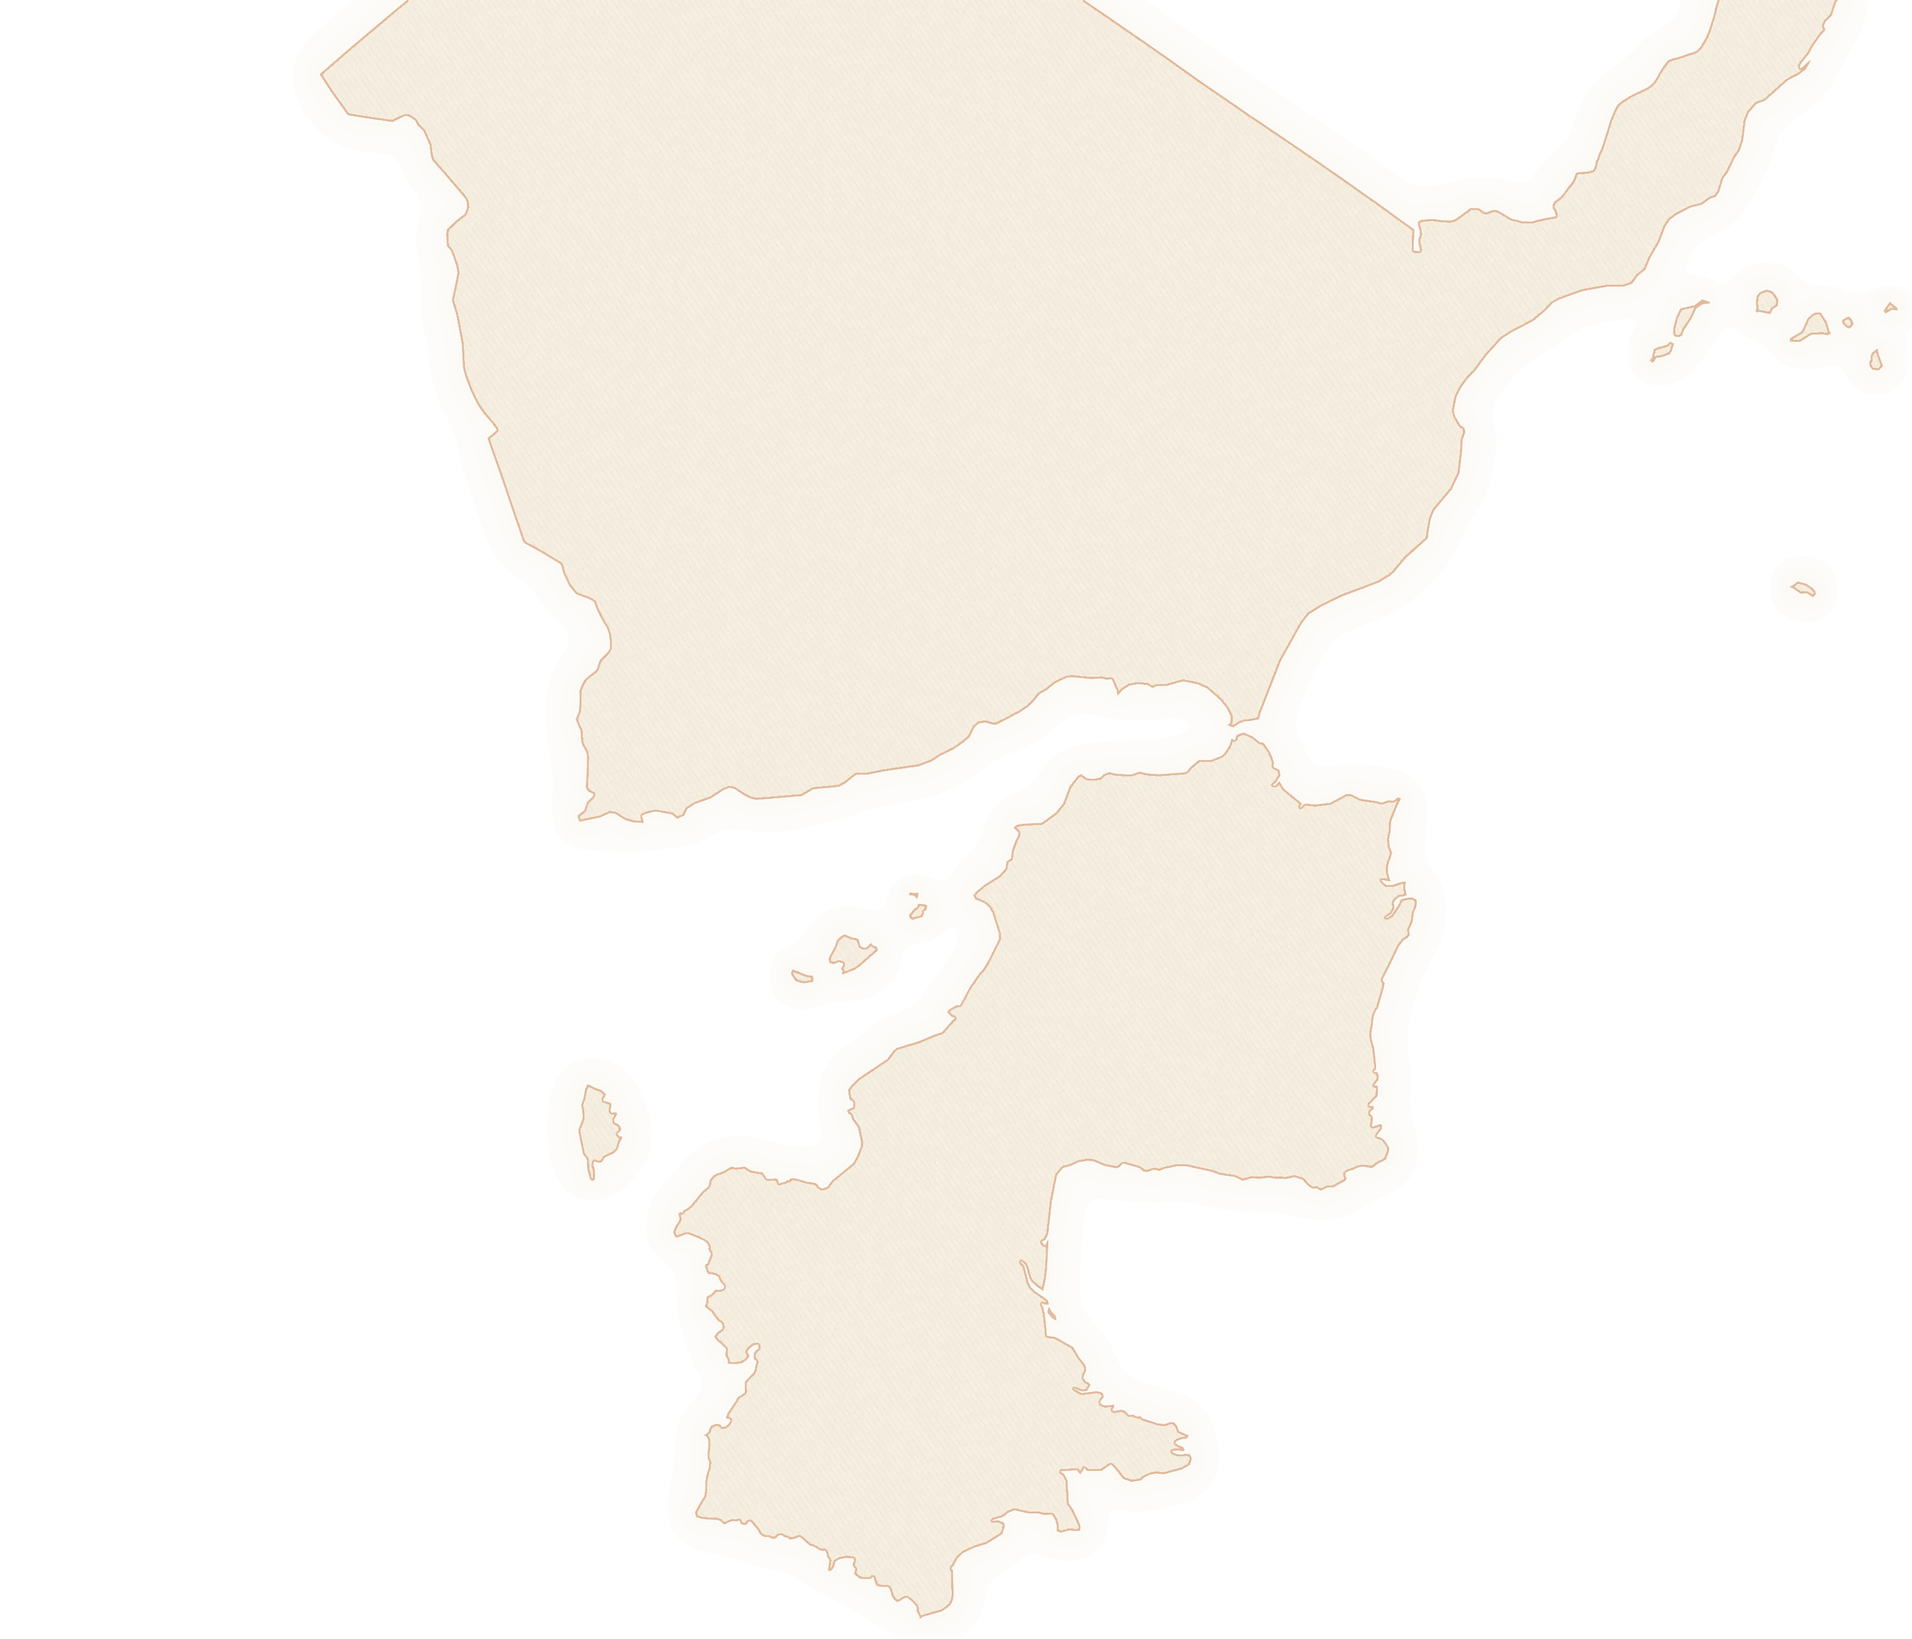
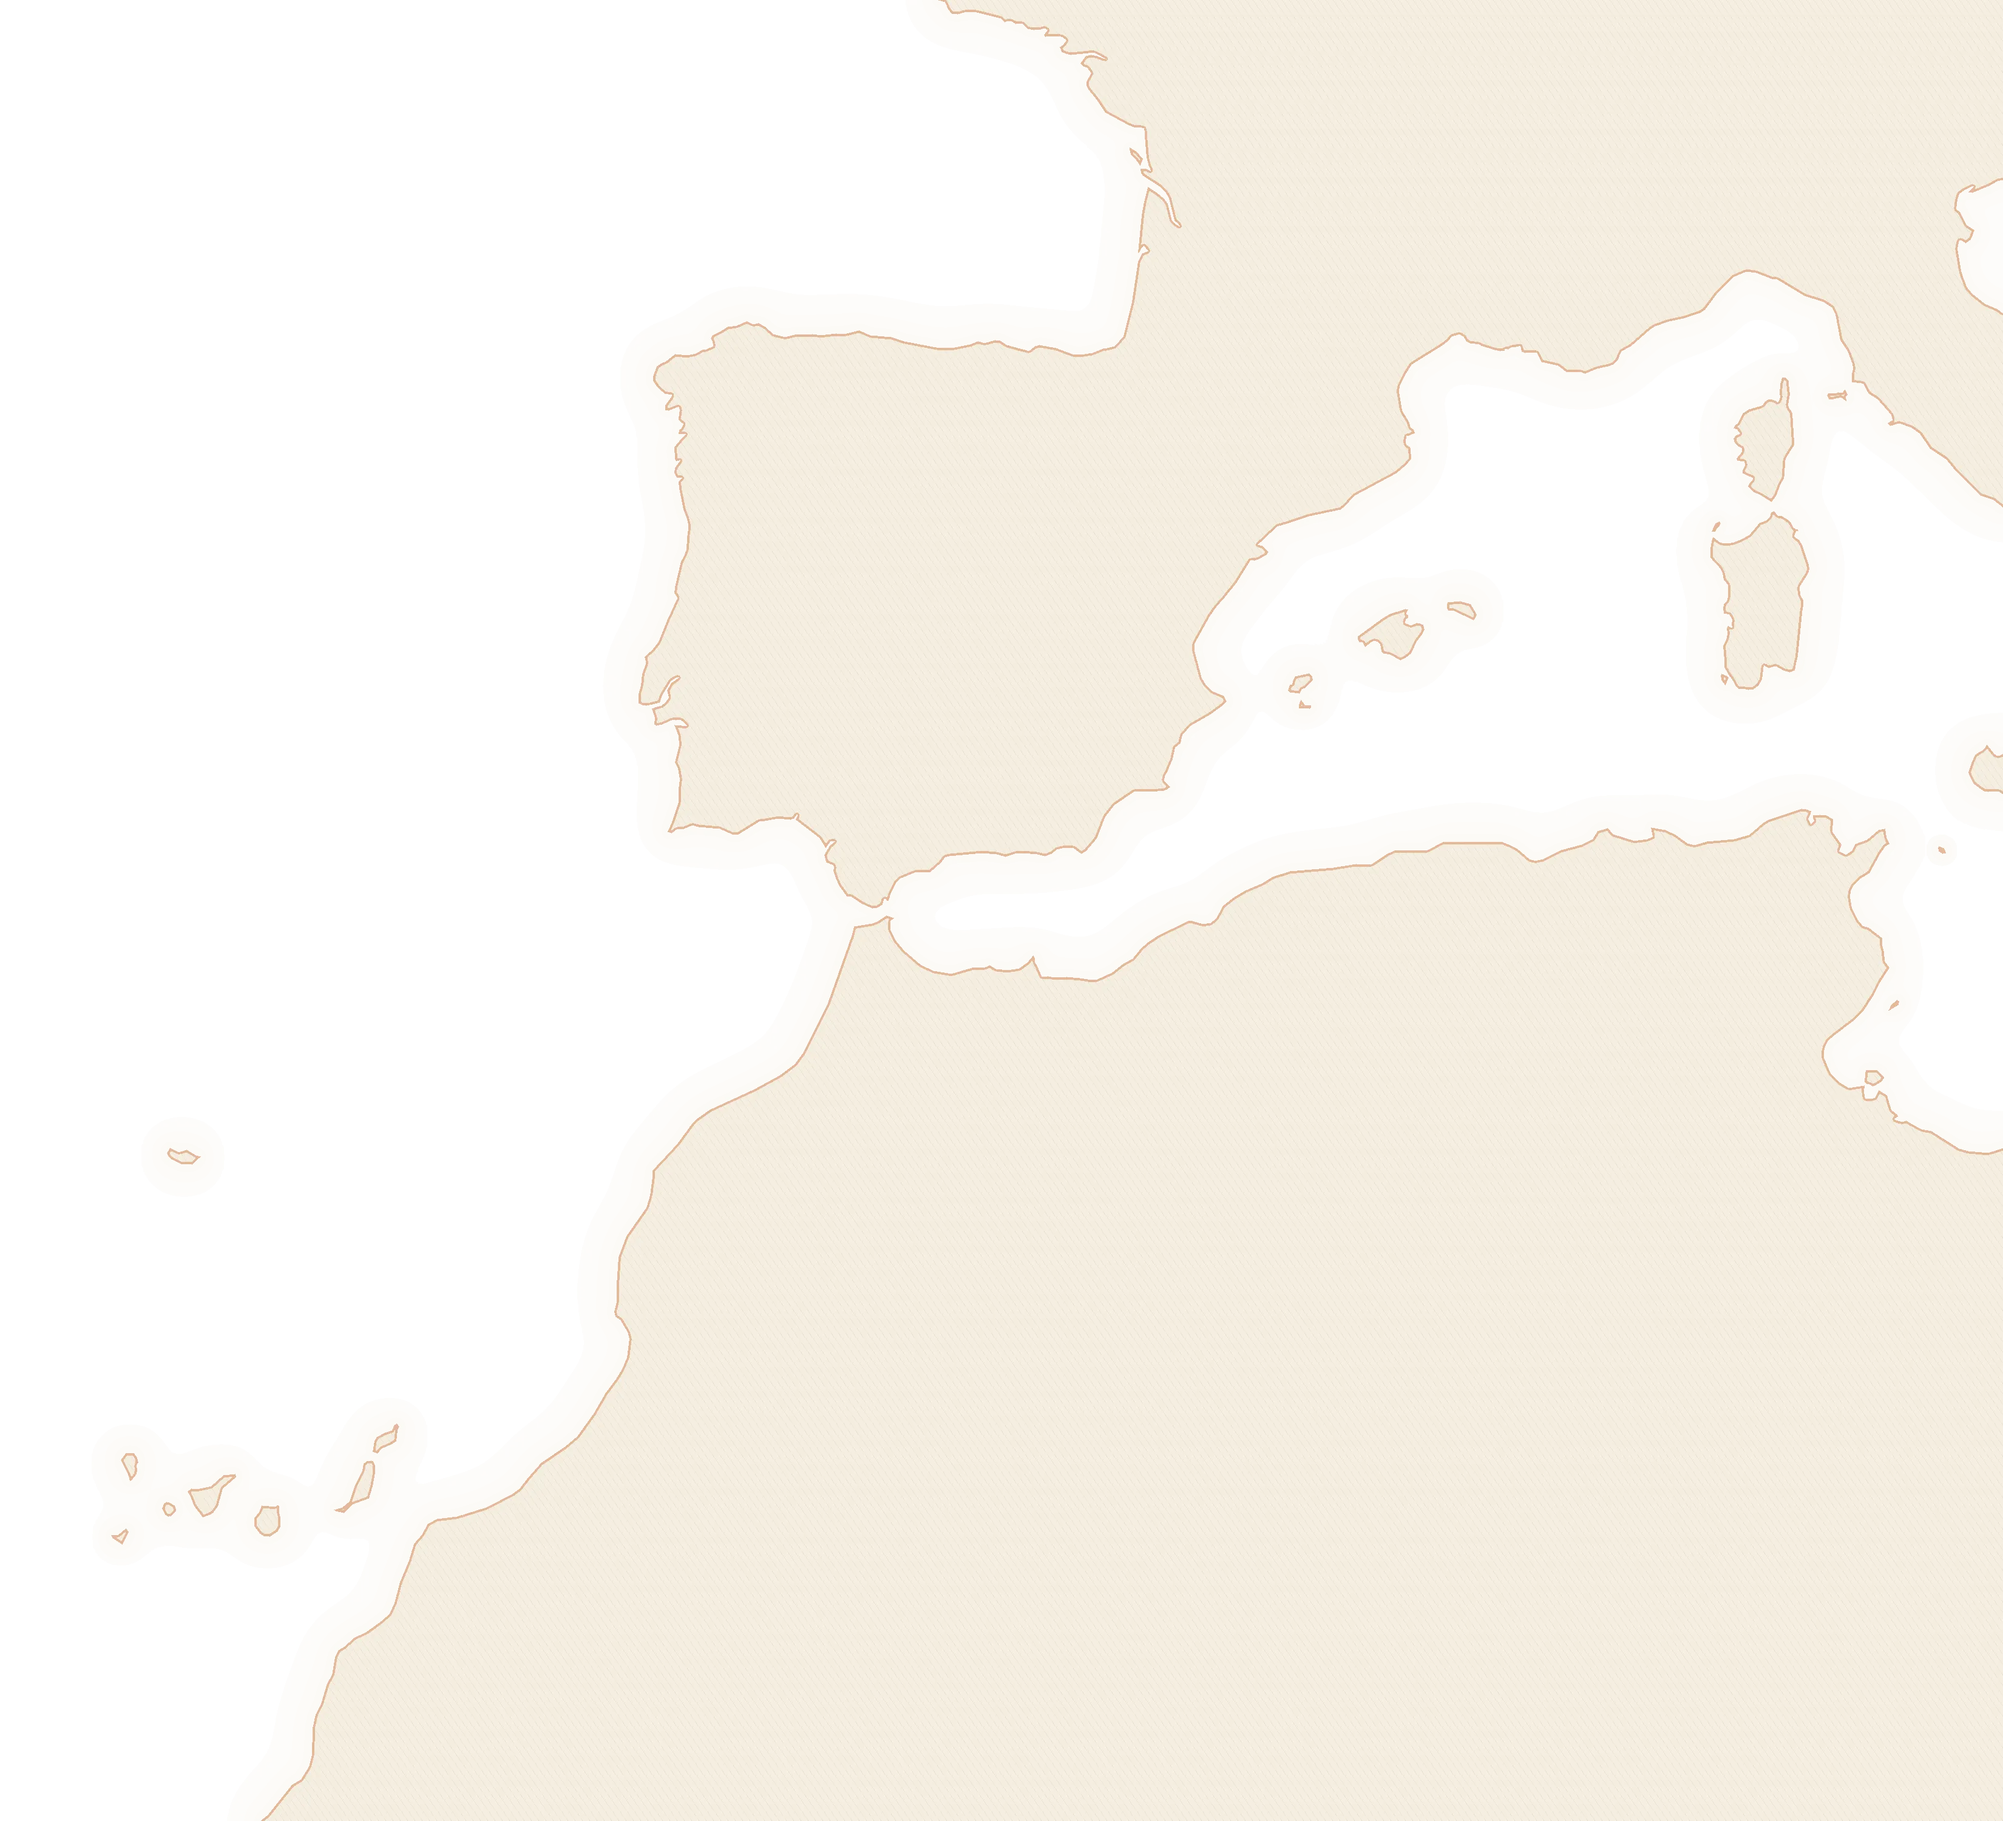
Mapa: Europa arriba y África abajo, con todas las ciudades
- La tierra sale de Natural Earth (50 m), norte arriba: la península y el norte de África enteros, sin fronteras políticas.
- Proyección simple compartida por la maqueta y WordPress (tf_globo): el cuadro va de 12,5° O a 5,5° E y de 29° N a 43,4° N.
- Las ciudades de la maqueta (con Ceuta, Almería y Gibraltar) se suman a las de WordPress; si una ciudad está en los dos sitios, manda WordPress.

diff --git a/page-comunidad.php b/page-comunidad.php
@@ -621,7 +621,7 @@ body.admin-bar .top{top:32px}@media (max-width:782px){body.admin-bar .top{top:46
     <div class="donde">
       <div class="mapaG" id="mapaG">
         <canvas class="mar luz" id="mar" data-modo="mar" data-colores="#2F4FA8,#5B6FBF,#CDCFE6" data-fondo="#CDCFE6" data-grano=".3" data-escala=".35" aria-hidden="true"></canvas>
-        <div class="tierra" id="mapa"><img src="<?php tf_img('if08a5f3143', TF_U . '/img/tierra.webp'); ?>" data-tf-img="if08a5f3143" alt="Las dos orillas del Estrecho, con España y el norte de Marruecos." draggable="false"></div>
+        <div class="tierra" id="mapa"><img src="<?php tf_img('i7628e2efc3', TF_U . '/img/tierra.webp?v=3'); ?>" data-tf-img="i7628e2efc3" alt="Las dos orillas del Estrecho: la península ibérica y el norte de África." draggable="false"></div>
         <div class="panel" id="panel" aria-live="polite"></div>
         <div class="lupa" id="lupa" role="group" aria-label="Zoom del mapa"><button type="button" data-z="1" aria-label="Acercar">+</button><button type="button" data-z="-1" aria-label="Alejar">−</button></div>
         <p class="pista" aria-hidden="true" data-tf="tb6d9a0d982"><?php tf_t('tb6d9a0d982'); ?></p>
@@ -927,16 +927,16 @@ body.admin-bar .top{top:32px}@media (max-width:782px){body.admin-bar .top{top:46
 
   /* ===== 5 · el globo del revés, con la gente de cada ciudad ===== */
   const CIU0 = {
-    algeciras: { n: 'Algeciras', txt: 'Aquí nació Transfronteriza, a un paso del Estrecho. Si vives cerca, súmate: te presentamos a la comunidad.', foto: '<?php echo TF_U; ?>/img/comunidad/ciudad-algeciras.jpg', x: 60.72, y: 36.18, sede: 1 },
-    jerez: { n: 'Jérez del Marquesado', txt: 'La finca Las Viñas, al pie de Sierra Nevada. Aquí hacemos el encuentro de cada septiembre.', foto: '<?php echo TF_U; ?>/img/comunidad/ciudad-jerez.jpg', x: 48.74, y: 42.81, sede: 1, izq: 1 },
-    granada: { n: 'Granada', txt: '¿Vives en Granada? Súmate a la comunidad de tu ciudad: te presentamos a quien ya está y quedamos para vernos.', foto: '<?php echo TF_U; ?>/img/comunidad/ciudad-granada.jpg', x: 51.02, y: 42.75, arr: 1 },
-    ceuta: { n: 'Ceuta', txt: '¿Vives en Ceuta? Súmate a la comunidad de tu ciudad: te presentamos a quien ya está y quedamos para vernos.', foto: '', x: 60.1, y: 34.6, arr: 1 },
-    gibraltar: { n: 'Gibraltar', txt: '¿Vives en Gibraltar? Súmate a la comunidad de tu ciudad: te presentamos a quien ya está y quedamos para vernos.', foto: '', x: 60.25, y: 36.55, izq: 1 },
-    almeria: { n: 'Almería', txt: '¿Vives en Almería? Súmate a la comunidad de tu ciudad: te presentamos a quien ya está y quedamos para vernos.', foto: '', x: 45.4, y: 40.7 },
-    malaga: { n: 'Málaga', txt: '¿Vives en Málaga? Súmate a la comunidad de tu ciudad: te presentamos a quien ya está y quedamos para vernos.', foto: '<?php echo TF_U; ?>/img/comunidad/ciudad-malaga.jpg', x: 55.29, y: 39.84 },
-    murcia: { n: 'Murcia', txt: '¿Vives en Murcia? Súmate a la comunidad de tu ciudad: te presentamos a quien ya está y quedamos para vernos.', foto: '<?php echo TF_U; ?>/img/comunidad/ciudad-murcia.jpg', x: 38.45, y: 48.15, izq: 1 },
-    madrid: { n: 'Madrid', txt: '¿Vives en Madrid? Súmate a la comunidad de tu ciudad: te presentamos a quien ya está y quedamos para vernos.', foto: '<?php echo TF_U; ?>/img/comunidad/ciudad-madrid.jpg', x: 51.49, y: 63.67 },
-    barcelona: { n: 'Barcelona', txt: '¿Vives en Barcelona? Súmate a la comunidad de tu ciudad: te presentamos a quien ya está y quedamos para vernos.', foto: '<?php echo TF_U; ?>/img/comunidad/ciudad-barcelona.jpg', x: 23.04, y: 70.73 }
+    algeciras: { n: 'Algeciras', txt: 'Aquí nació Transfronteriza, a un paso del Estrecho. Si vives cerca, súmate: te presentamos a la comunidad.', foto: '<?php echo TF_U; ?>/img/comunidad/ciudad-algeciras.jpg', x: 39.17, y: 50.49, sede: 1, arr: 1 },
+    jerez: { n: 'Jérez del Marquesado', txt: 'La finca Las Viñas, al pie de Sierra Nevada. Aquí hacemos el encuentro de cada septiembre.', foto: '<?php echo TF_U; ?>/img/comunidad/ciudad-jerez.jpg', x: 51.83, y: 43.12, sede: 1 },
+    granada: { n: 'Granada', txt: '¿Vives en Granada? Súmate a la comunidad de tu ciudad: te presentamos a quien ya está y quedamos para vernos.', foto: '<?php echo TF_U; ?>/img/comunidad/ciudad-granada.jpg', x: 49.44, y: 43.19, arr: 1 },
+    ceuta: { n: 'Ceuta', txt: '¿Vives en Ceuta? Súmate a la comunidad de tu ciudad: te presentamos a quien ya está y quedamos para vernos.', foto: '', x: 39.89, y: 52.15, izq: 1 },
+    gibraltar: { n: 'Gibraltar', txt: '¿Vives en Gibraltar? Súmate a la comunidad de tu ciudad: te presentamos a quien ya está y quedamos para vernos.', foto: '', x: 39.72, y: 50.42 },
+    almeria: { n: 'Almería', txt: '¿Vives en Almería? Súmate a la comunidad de tu ciudad: te presentamos a quien ya está y quedamos para vernos.', foto: '', x: 55.78, y: 45.56 },
+    malaga: { n: 'Málaga', txt: '¿Vives en Málaga? Súmate a la comunidad de tu ciudad: te presentamos a quien ya está y quedamos para vernos.', foto: '<?php echo TF_U; ?>/img/comunidad/ciudad-malaga.jpg', x: 44.89, y: 46.39 },
+    murcia: { n: 'Murcia', txt: '¿Vives en Murcia? Súmate a la comunidad de tu ciudad: te presentamos a quien ya está y quedamos para vernos.', foto: '<?php echo TF_U; ?>/img/comunidad/ciudad-murcia.jpg', x: 63.17, y: 37.64, izq: 1 },
+    madrid: { n: 'Madrid', txt: '¿Vives en Madrid? Súmate a la comunidad de tu ciudad: te presentamos a quien ya está y quedamos para vernos.', foto: '<?php echo TF_U; ?>/img/comunidad/ciudad-madrid.jpg', x: 48.89, y: 20.69 },
+    barcelona: { n: 'Barcelona', txt: '¿Vives en Barcelona? Súmate a la comunidad de tu ciudad: te presentamos a quien ya está y quedamos para vernos.', foto: '<?php echo TF_U; ?>/img/comunidad/ciudad-barcelona.jpg', x: 81.5, y: 13.96 }
   };
   /* el mar: el zellige añil de la marca (espiga de azulejo esmaltado, junta de cal) y la luz que lo cruza despacio */
   const ANIL = ['#2F4FA8', '#294796', '#3657B3', '#223D85', '#3B5FBE', '#2B4A9F', '#4A6BC2', '#1E377A', '#3252AC', '#5575C6'];
@@ -983,7 +983,7 @@ body.admin-bar .top{top:32px}@media (max-width:782px){body.admin-bar .top{top:46
     const bucle = t => { if (t - t0 > 40) { T += Math.min(.1, (t - t0) / 1000); t0 = t; dibuja(); } raf = enVista ? requestAnimationFrame(bucle) : 0; };
     /* el zellige queda aquí por si vuelve; el mar lo pinta ahora luz.js (manual v3) */
   })();
-  const CIU = TF.ciudades && Object.keys(TF.ciudades).length ? TF.ciudades : CIU0;
+  const CIU = Object.assign({}, CIU0); for (const [k, v] of Object.entries(TF.ciudades || {})) { delete CIU[k.split('-')[0]]; CIU[k] = v; }
   const mapa = $('#mapa'), mapaG = $('#mapaG'), panel = $('#panel');
   Object.entries(CIU).forEach(([k, c], i) => { const b = document.createElement('button'); b.type = 'button'; b.className = 'pun' + (c.sede ? ' sede' : '') + (c.izq ? ' izq' : '') + (c.arr ? ' arr' : ''); b.style.left = c.x + '%'; b.style.top = c.y + '%'; b.dataset.c = k; b.setAttribute('aria-pressed', 'false'); b.innerHTML = `<canvas aria-hidden="true"></canvas><span>${c.n}</span>`; mapa.appendChild(b); pep(b.querySelector('canvas'), i + 3); });
   const elige = k => { const c = CIU[k]; mapa.querySelectorAll('.pun').forEach(p => p.setAttribute('aria-pressed', p.dataset.c === k)); document.querySelectorAll('.ciuM button').forEach(p => p.setAttribute('aria-pressed', p.dataset.c === k)); panel.innerHTML = `<div${EI(c.id, 'tf_ciudad')}><figure class="pf${c.foto ? '' : ' sin'}"${EF(c.id)}>${c.foto ? `<img src="${c.foto}" alt="${esc(c.n)}." loading="lazy" decoding="async">` : ''}</figure><div class="pt"><h3${ED(c.id, 'titulo')}>${c.n}</h3><p class="txt"${ED(c.id, 'texto')}>${c.txt}</p><button class="btn p" type="button" data-flujo="ciudad" data-ciudad="${c.n}" data-foto="${c.foto}">Haz comunidad en ${c.n}</button></div></div>`; };
@@ -1007,8 +1007,8 @@ body.admin-bar .top{top:32px}@media (max-width:782px){body.admin-bar .top{top:46
     const suelta = () => { drag = null; mapaG.classList.remove('arrastra'); setTimeout(() => { movio = false; }, 0); };
     mapaG.addEventListener('pointerup', suelta); mapaG.addEventListener('pointercancel', suelta);
     mapaG.addEventListener('click', e => { if (movio) { e.stopPropagation(); e.preventDefault(); } movio = false; }, true);
-    /* al abrir, el Estrecho en el centro: la tierra se desplaza para que Algeciras y Tánger queden a la vista */
-    const centra = () => { const s = S(), ancho = mapaG.clientWidth > mapaG.clientHeight; tx = (50 - (ancho ? 57 : 53)) / 100 * s; ty = (50 - (ancho ? 40 : 42)) / 100 * s; limita(); pinta(); };
+    /* al abrir, el Estrecho en el centro: Europa arriba, África abajo, las dos orillas a la vista */
+    const centra = () => { const s = S(), ancho = mapaG.clientWidth > mapaG.clientHeight; tx = (50 - (ancho ? 46 : 44)) / 100 * s; ty = (50 - (ancho ? 46 : 48)) / 100 * s; limita(); pinta(); };
     new ResizeObserver(centra).observe(mapaG); centra(); })();
 
   /* ===== 6 · La Frontera ===== */
@@ -1206,7 +1206,7 @@ body.admin-bar .top{top:32px}@media (max-width:782px){body.admin-bar .top{top:46
 .mapaG.arrastra{cursor:grabbing}
 .mapaG > .mar{position:absolute;inset:0;width:100%;height:100%;z-index:0;border-radius:0;box-shadow:none}
 .tierra{--z:1;--tx:0px;--ty:0px;position:absolute;left:50%;top:50%;height:125%;aspect-ratio:1/1;width:auto;translate:-50% -50%;transform:translate(var(--tx),var(--ty)) scale(var(--z));transform-origin:50% 50%;will-change:transform;z-index:1}
-.tierra > img{position:absolute;left:-75%;top:-45%;width:210%;height:180%;max-width:none;pointer-events:none}
+.tierra > img{position:absolute;left:-41.67%;top:-31.94%;width:183.33%;height:166.67%;max-width:none;pointer-events:none}
 .tierra .pun{scale:calc(1 / var(--z));font-size:14px}
 .tierra .pun canvas{width:30px;height:30px;transition:transform .5s var(--ease)}
 .tierra .pun.sede canvas{width:38px;height:38px}

diff --git a/functions.php b/functions.php
@@ -139,10 +139,8 @@ function tf_documentos() {
 
 /* ---------- Comunidad ---------- */
 function tf_globo($lat, $lon) {
-	$L0 = deg2rad(-3.4); $P0 = deg2rad(38.3); $R = 3700; $C = 500;
-	$l = deg2rad((float) $lon); $p = deg2rad((float) $lat);
-	$x = $R * cos($p) * sin($l - $L0); $y = $R * (cos($P0) * sin($p) - sin($P0) * cos($p) * cos($l - $L0));
-	return [round(($C - $x) / 10, 2), round(($C + $y) / 10, 2)];
+	/* el mapa de las dos orillas (img/tierra.webp): norte arriba, el cuadro va de 12,5° O a 5,5° E y de 29° N a 43,4° N */
+	return [round(((float) $lon + 12.5) / 18 * 100, 2), round((43.4 - (float) $lat) / 14.4 * 100, 2)];
 }
 /* vídeo de Vimeo: basta con pegar el enlace; la proporción y la portada las pide a Vimeo una vez por semana */
 function tf_vimeo($url) {
